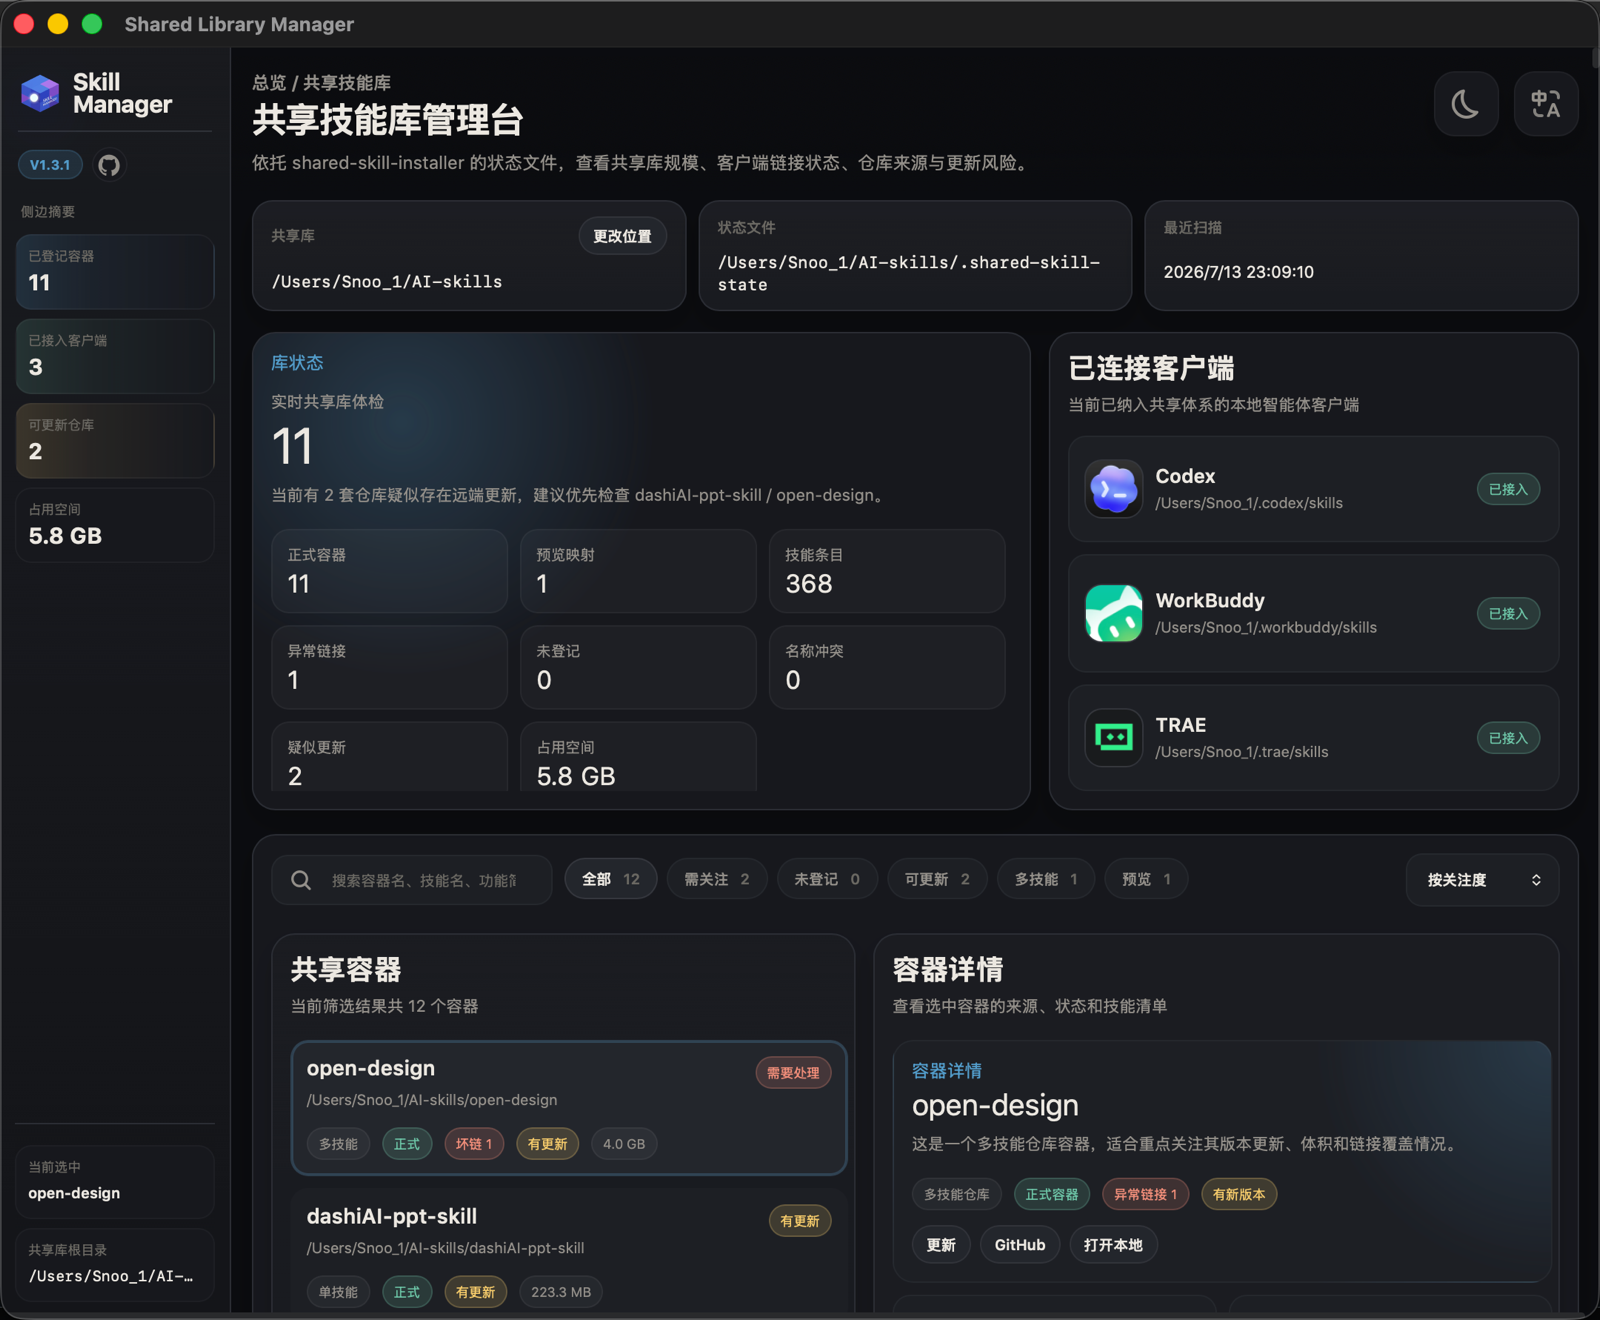
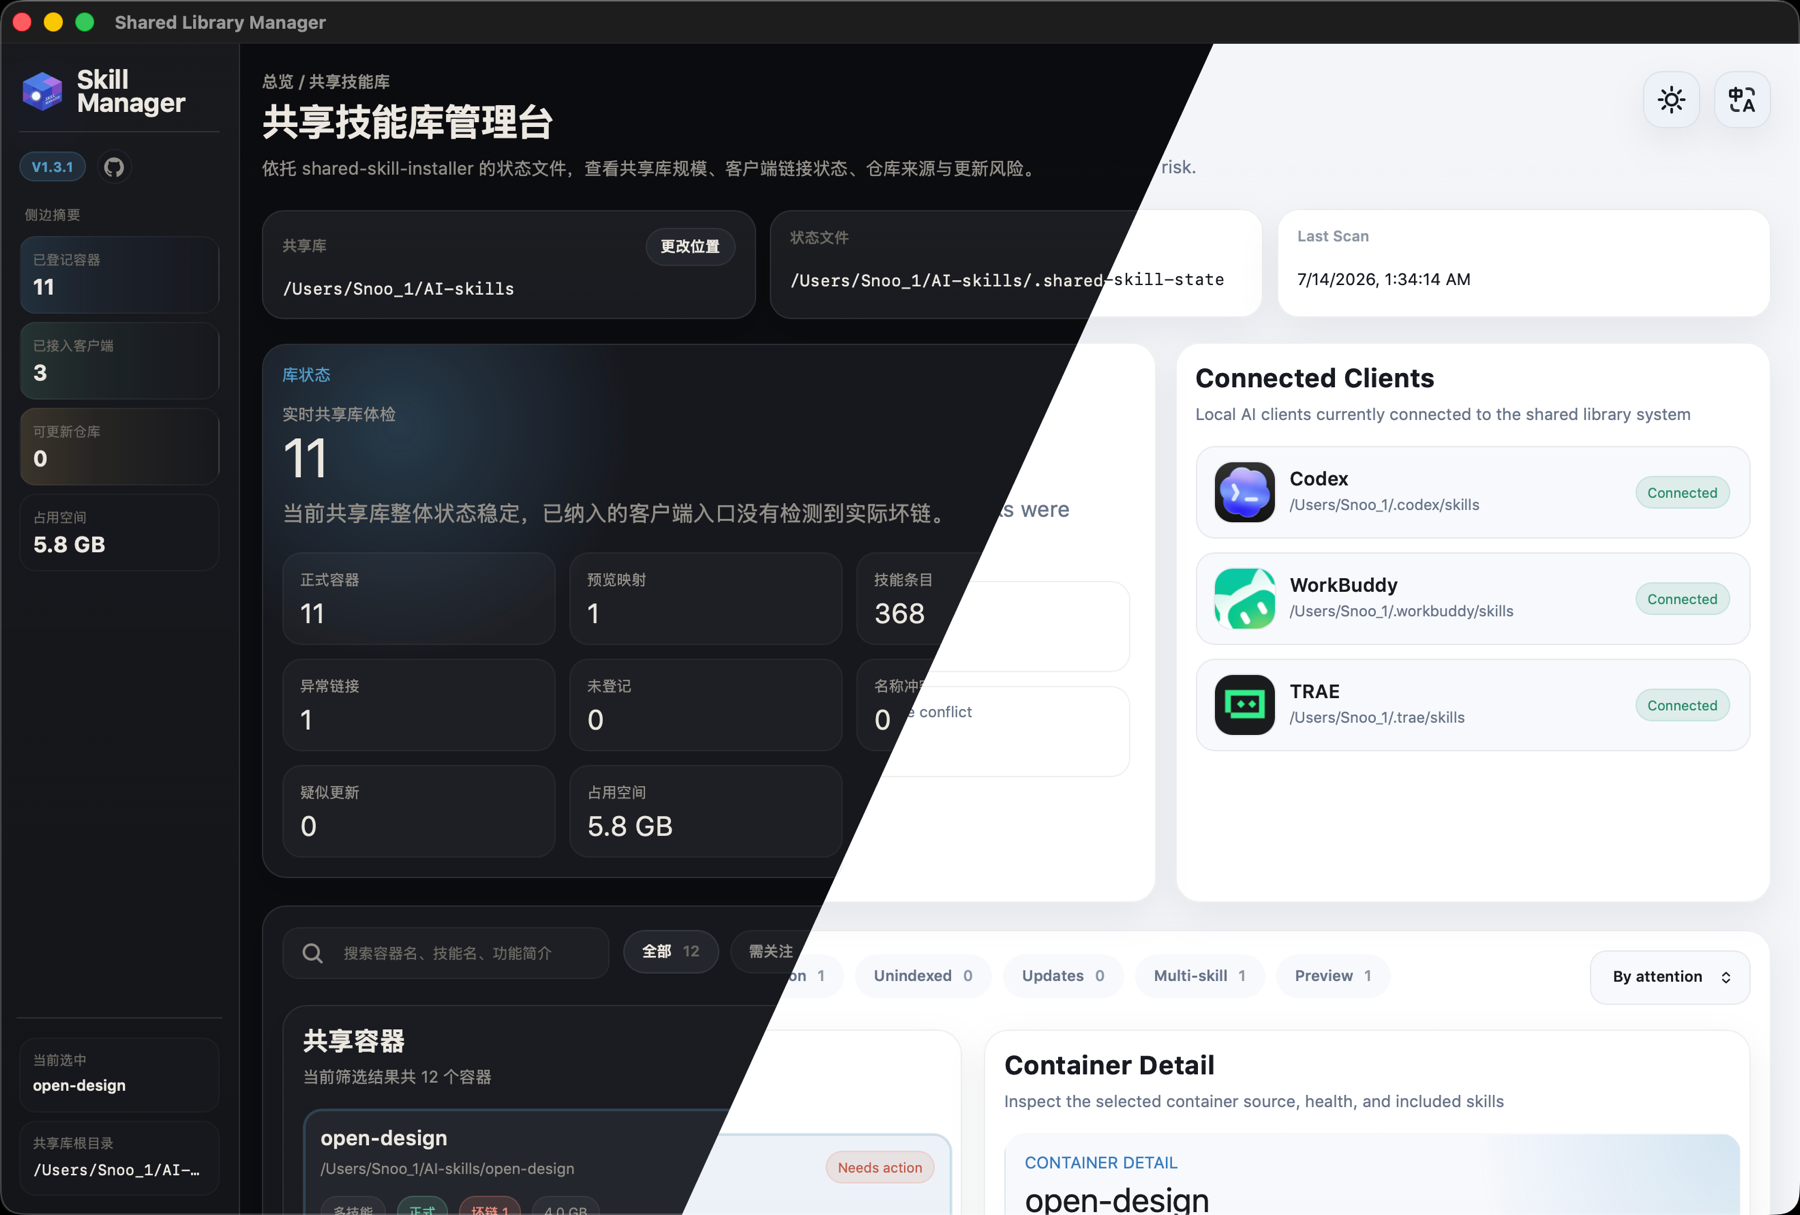
Add manager loading state

diff --git a/manager/styles.css b/manager/styles.css
@@ -70,6 +70,10 @@ body {
   font-family: var(--font-sans);
 }
 
+body.is-loading {
+  overflow: hidden;
+}
+
 button,
 input,
 select {
@@ -104,6 +108,68 @@ p {
   min-width: var(--layout-min-width);
   min-height: 100vh;
   background: var(--bg);
+}
+
+body.is-loading .app-shell {
+  filter: saturate(0.82) brightness(0.9);
+}
+
+.loading-screen {
+  position: fixed;
+  inset: 0;
+  z-index: 200;
+  display: grid;
+  place-items: center;
+  padding: 24px;
+  background:
+    linear-gradient(180deg, color-mix(in srgb, var(--bg) 86%, transparent) 0%, color-mix(in srgb, var(--bg) 94%, transparent) 100%);
+  backdrop-filter: blur(14px);
+}
+
+.loading-screen[hidden] {
+  display: none;
+}
+
+.loading-screen__panel {
+  width: min(420px, calc(100vw - 48px));
+  display: grid;
+  justify-items: center;
+  gap: 14px;
+  padding: 28px 24px;
+  border-radius: 24px;
+  background: color-mix(in srgb, var(--surface) 88%, transparent);
+  border: 1px solid rgba(255, 255, 255, 0.08);
+  box-shadow: var(--shadow-lg);
+  text-align: center;
+}
+
+.loading-screen__spinner {
+  width: 48px;
+  height: 48px;
+  border-radius: 999px;
+  border: 3px solid color-mix(in srgb, var(--line-strong) 92%, transparent);
+  border-top-color: var(--accent);
+  animation: manager-spin 0.9s linear infinite;
+}
+
+.loading-screen__title {
+  font-size: 20px;
+  font-weight: 700;
+  line-height: 1.2;
+  color: var(--text);
+}
+
+.loading-screen__body {
+  max-width: 320px;
+  color: var(--muted);
+  font-size: 14px;
+  line-height: 1.55;
+}
+
+@keyframes manager-spin {
+  to {
+    transform: rotate(360deg);
+  }
 }
 
 .sidebar {

diff --git a/manager/app.js b/manager/app.js
@@ -24,6 +24,8 @@ let APP_STATE = null;
 const I18N = {
   zh: {
     documentTitle: "Skill Manager",
+    loadingTitle: "正在加载管理台…",
+    loadingBody: "正在读取共享库状态、客户端链接和技能清单。",
     brandEyebrow: "共享技能库",
     brandTitleLines: ["Skill", "Manager"],
     brandSubtitle: "",
@@ -149,6 +151,8 @@ const I18N = {
   },
   en: {
     documentTitle: "Skill Manager",
+    loadingTitle: "Loading Shared Library Manager...",
+    loadingBody: "Reading shared library state, client links, and skill entries.",
     brandEyebrow: "Shared Library",
     brandTitleLines: ["Skill", "Manager"],
     brandSubtitle: "",
@@ -477,6 +481,18 @@ function applyDocumentSettings() {
   document.documentElement.dataset.theme = UI_STATE.theme;
   document.documentElement.lang = UI_STATE.locale === "zh" ? "zh-CN" : "en";
   document.title = t("documentTitle");
+}
+
+function setLoading(isLoading) {
+  document.body.classList.toggle("is-loading", isLoading);
+  const screen = document.getElementById("loading-screen");
+  if (!screen) return;
+  screen.hidden = !isLoading;
+  screen.setAttribute("aria-busy", isLoading ? "true" : "false");
+  const title = document.getElementById("loading-title");
+  const body = document.getElementById("loading-body");
+  if (title) title.textContent = t("loadingTitle");
+  if (body) body.textContent = t("loadingBody");
 }
 
 function linkBadge(link) {
@@ -1075,6 +1091,7 @@ function bindEvents(state) {
 
 function render(state) {
   applyDocumentSettings();
+  setLoading(false);
   renderStaticTexts();
   renderNotice();
   renderBrandChrome(state);
@@ -1094,13 +1111,17 @@ function render(state) {
 
 async function main() {
   try {
+    applyDocumentSettings();
+    setLoading(true);
     APP_STATE = await loadState(true);
     if (!APP_STATE) {
+      setLoading(false);
       document.body.innerHTML = "<p>Missing shared library state data.</p>";
       return;
     }
     render(APP_STATE);
   } catch (error) {
+    setLoading(false);
     document.body.innerHTML = `<p>${escapeHtml(error.message || "Failed to load manager state.")}</p>`;
   }
 }

diff --git a/manager/index.html b/manager/index.html
@@ -8,7 +8,7 @@
     <link rel="apple-touch-icon" href="./assets/branding/skill-manager-brand-transparent.png" />
     <link rel="stylesheet" href="./styles.css" />
   </head>
-  <body>
+  <body class="is-loading">
     <div class="app-shell">
       <aside class="sidebar">
         <div class="sidebar__brand">
@@ -131,6 +131,14 @@
           </div>
         </section>
       </main>
+    </div>
+
+    <div class="loading-screen" id="loading-screen" aria-live="polite" aria-busy="true">
+      <div class="loading-screen__panel">
+        <div class="loading-screen__spinner" aria-hidden="true"></div>
+        <div class="loading-screen__title" id="loading-title">正在加载管理台…</div>
+        <div class="loading-screen__body" id="loading-body">正在读取共享库状态、客户端链接和技能清单。</div>
+      </div>
     </div>
 
     <script src="./data/library-state.js"></script>